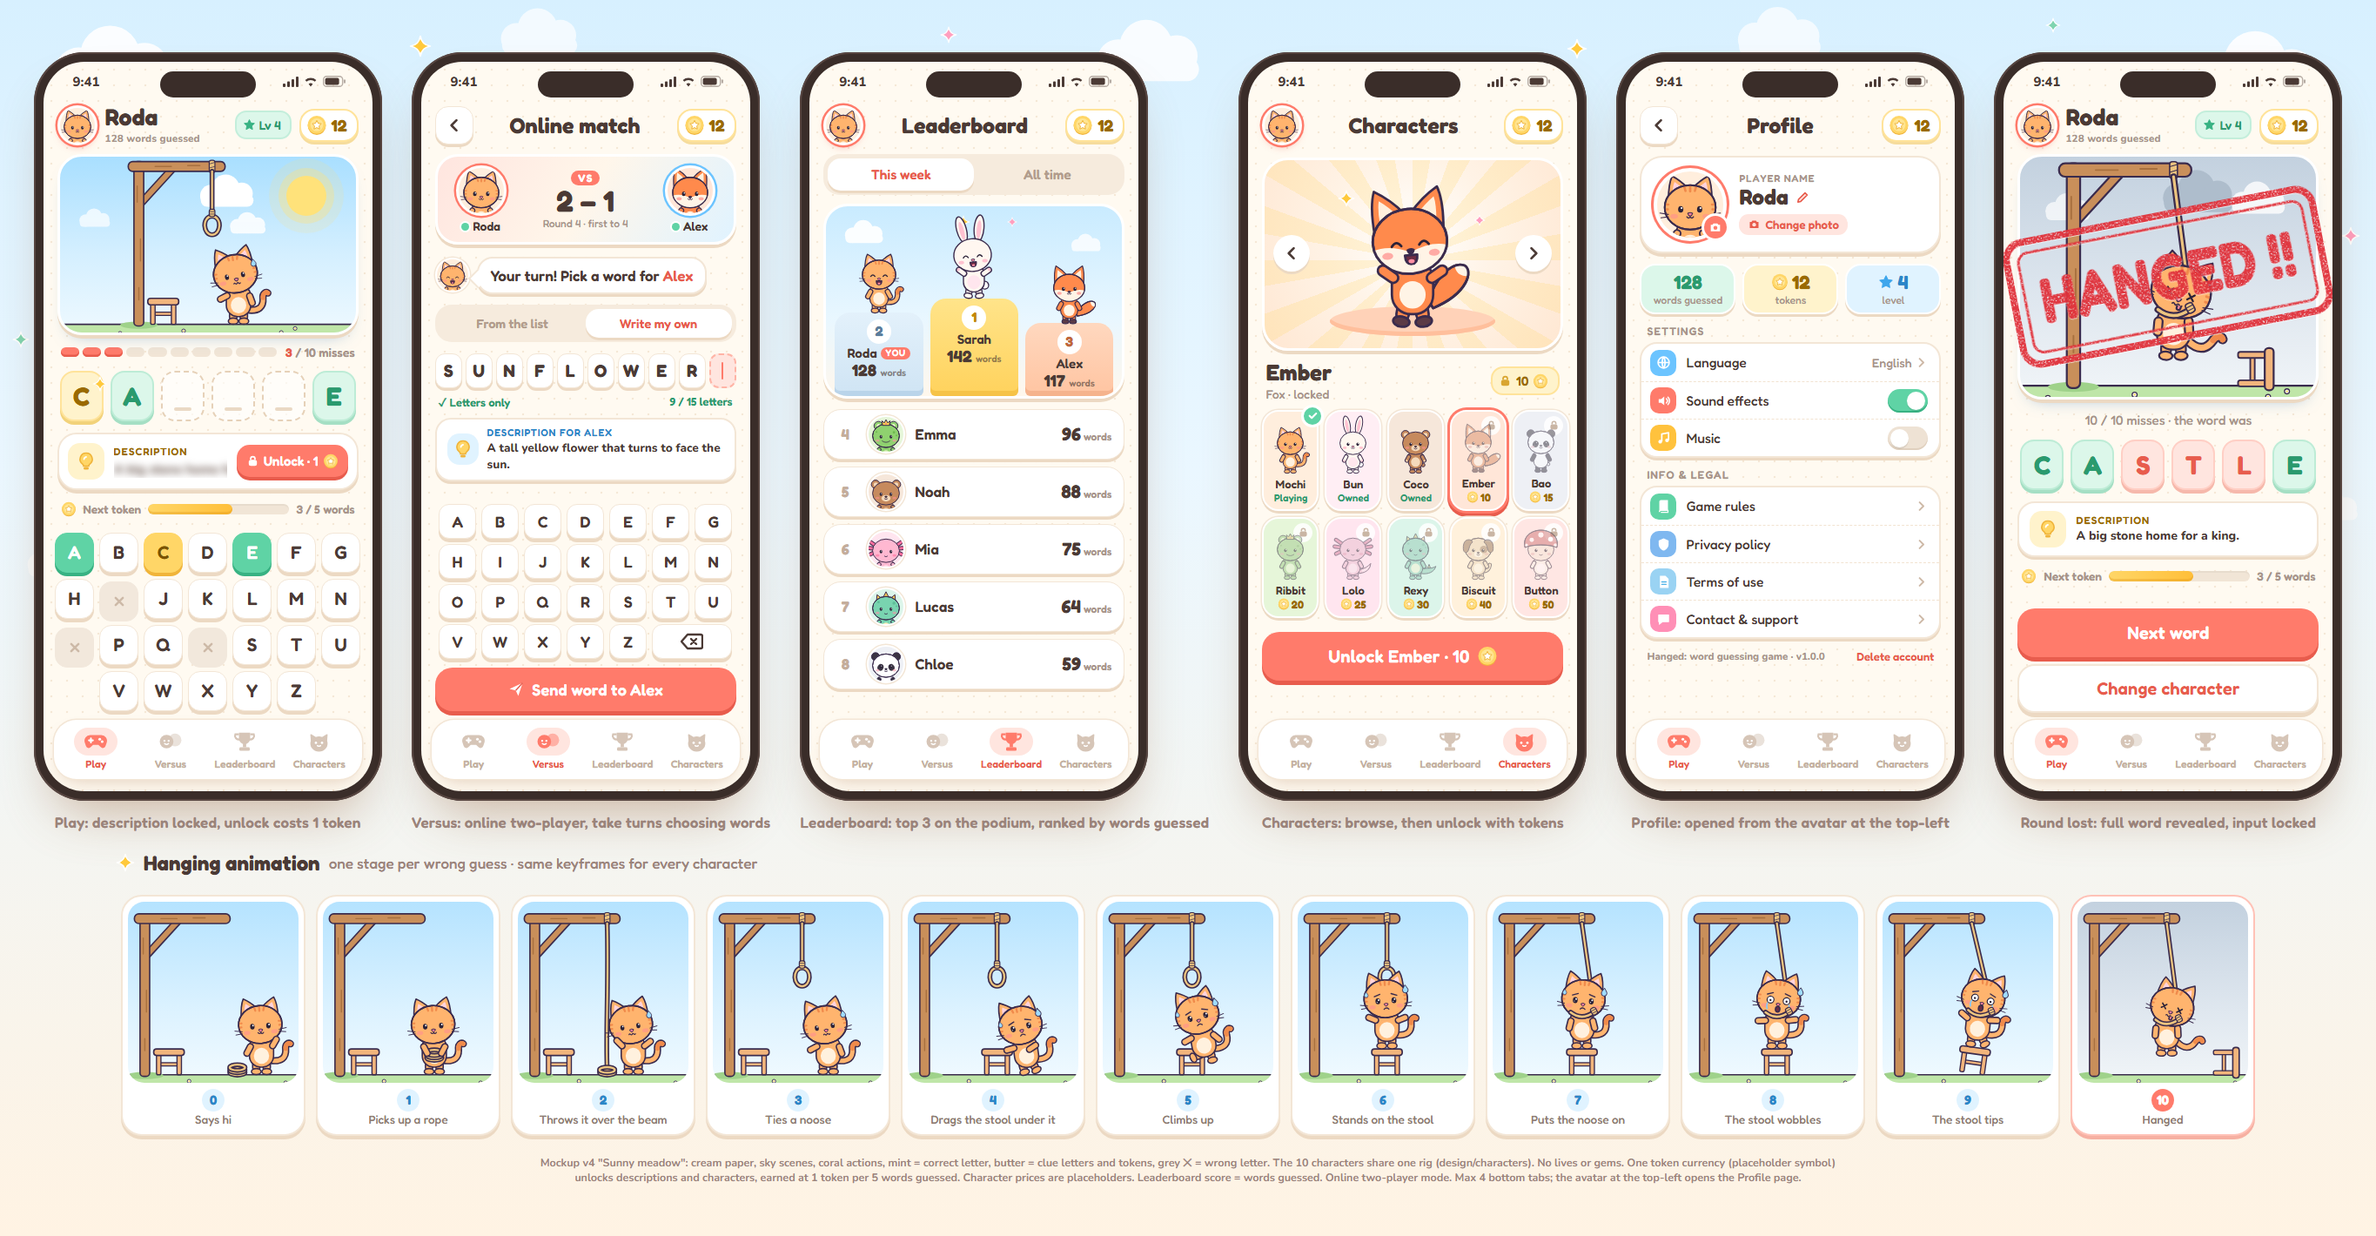
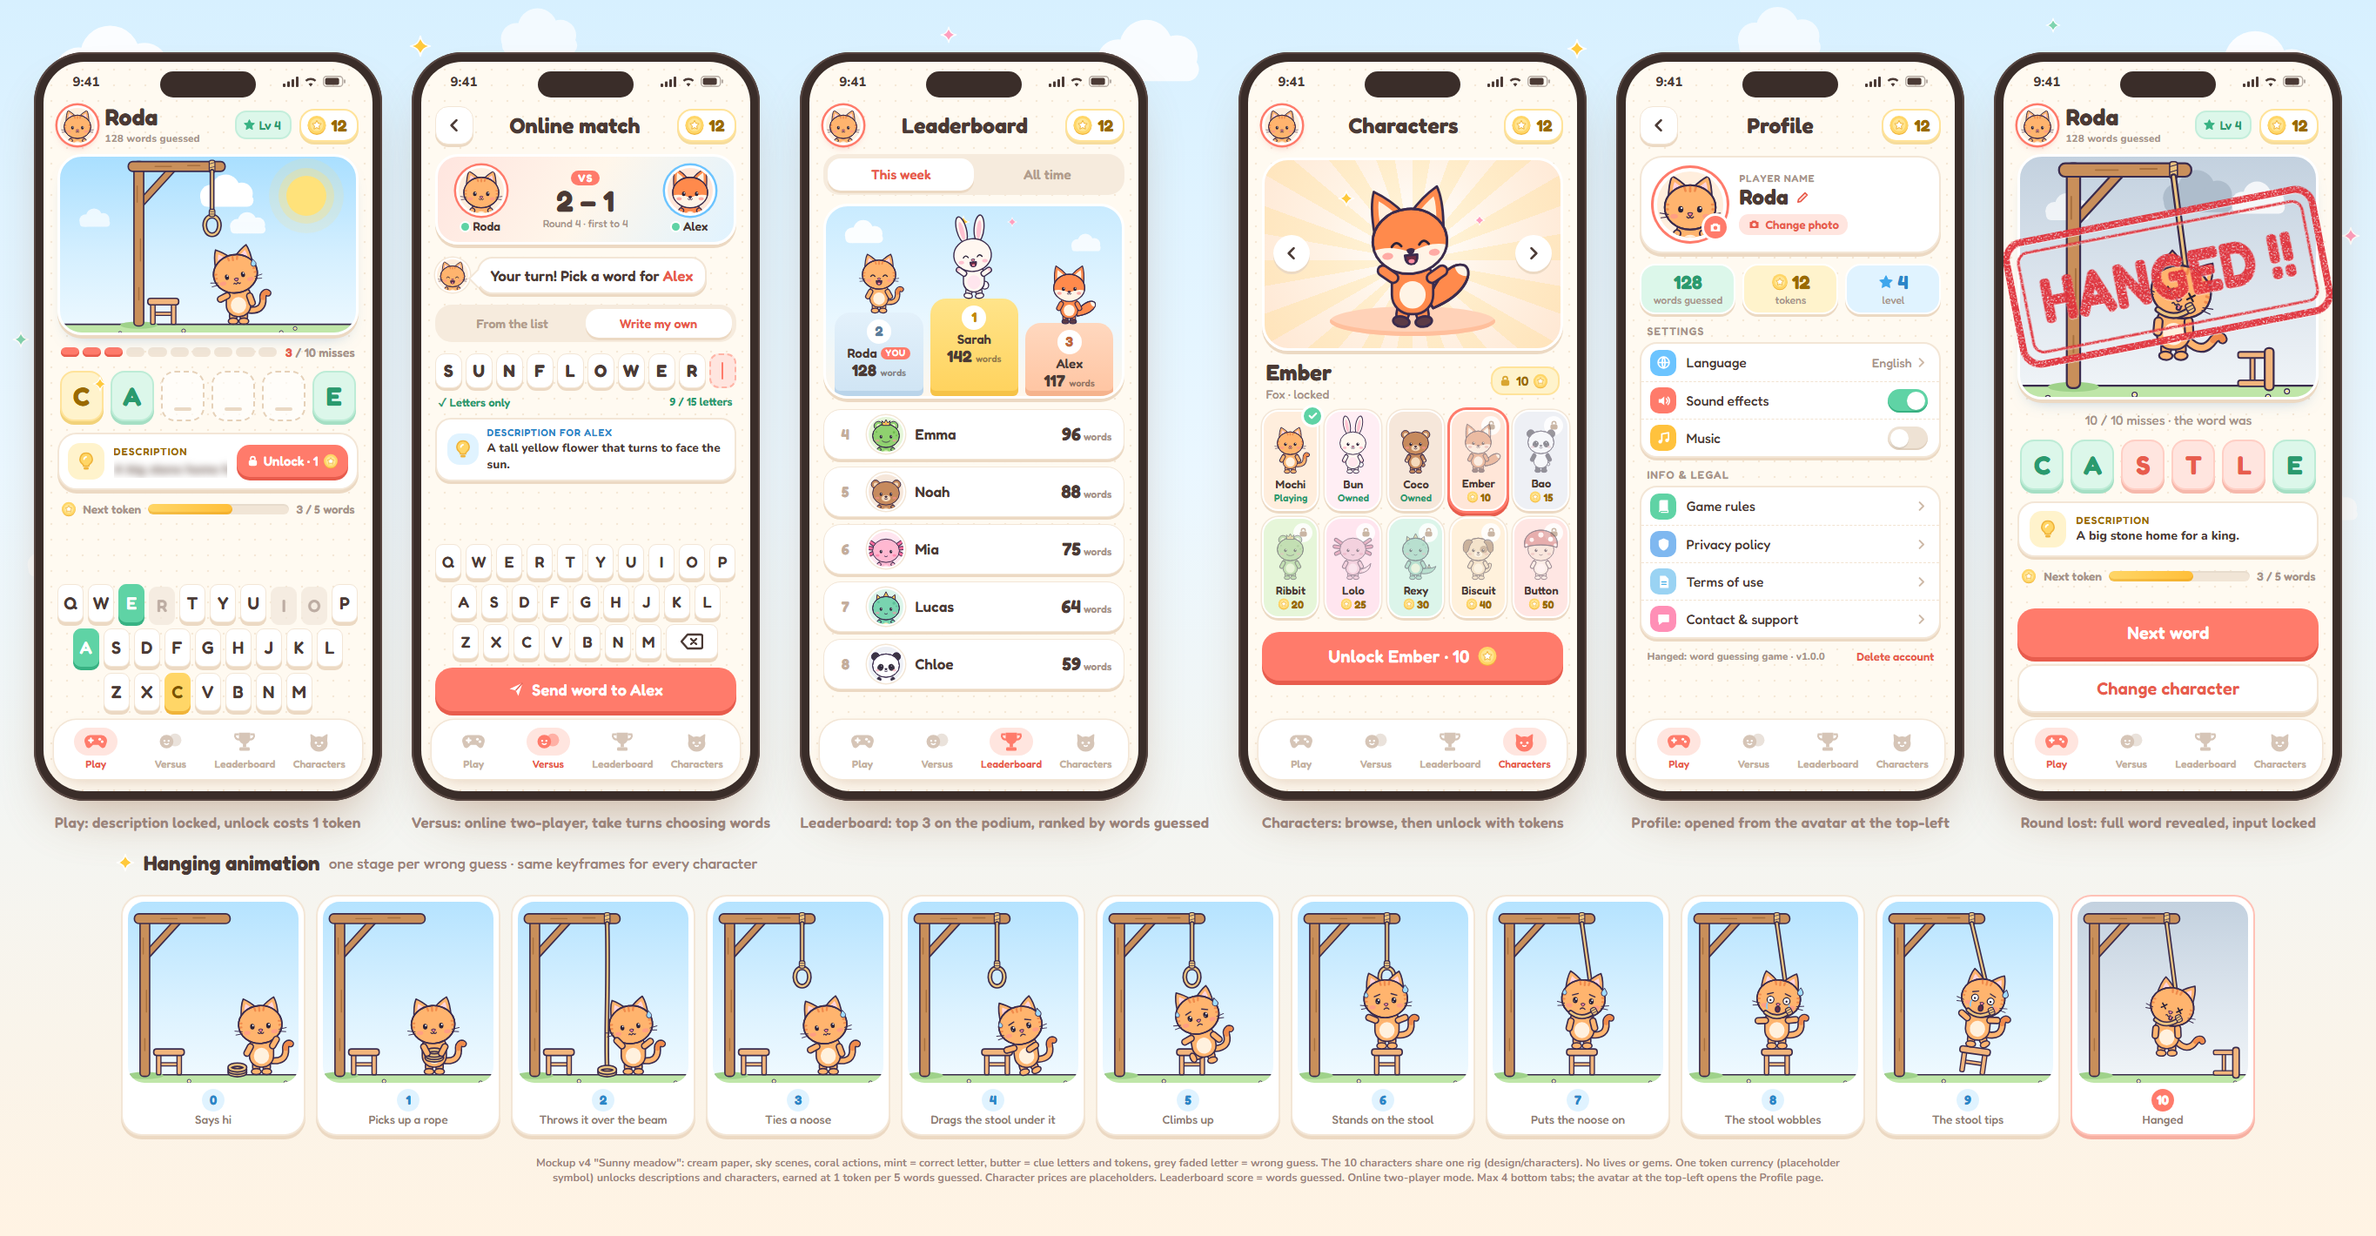
Keyboard: iPhone QWERTY order, wrong keys show their letter
- In-game keyboard uses the iOS letter order (10/9/7 centred rows),
  with taller, narrower keys sized to fit 10 across.
- Wrong guesses show the faded letter instead of a ✕, so players see
  what they already tried. Removes the now-unused xXml icon.
- Mockup updated to match (and its Versus backspace restored on the
  last row), PNG re-rendered; CLAUDE.md and play-screen docs updated.

Changed region(s): [[0.0, 0.4338, 0.1557, 0.5887], [0.2179, 0.9296, 0.7784, 0.9606], [0.1868, 0.4028, 0.3114, 0.5577]]

diff --git a/design/ui-mockup.html b/design/ui-mockup.html
@@ -78,12 +78,12 @@
   .track{flex:1;height:12px;border-radius:7px;background:#f1e5d6;overflow:hidden;box-shadow:inset 0 2px 0 rgba(0,0,0,.04)}
   .fill{height:100%;background:linear-gradient(90deg,var(--butter),#ffbf3a);border-radius:7px;box-shadow:inset 0 -3px 0 rgba(224,150,20,.35)}
   .kb{margin-top:auto;margin-bottom:4px;display:flex;flex-direction:column;gap:7px;align-items:center}
-  .kr{display:flex;gap:6px}
-  .k{width:45px;height:46px;border-radius:14px;background:#fff;border:1.5px solid var(--line);box-shadow:0 4px 0 var(--shadow);display:flex;align-items:center;justify-content:center;font-family:Fredoka,Nunito,sans-serif;font-weight:600;font-size:21px;color:var(--ink)}
+  .kr{display:flex;gap:5px}
+  .k{width:30px;height:44px;border-radius:9px;background:#fff;border:1.5px solid var(--line);box-shadow:0 4px 0 var(--shadow);display:flex;align-items:center;justify-content:center;font-family:Fredoka,Nunito,sans-serif;font-weight:600;font-size:20px;color:var(--ink)}
   .k.ok{background:var(--mint);color:#fff;border-color:var(--mint);box-shadow:0 4px 0 var(--mint-d)}
-  .k.no{background:#f2e8dc;border-color:#f2e8dc;box-shadow:none;transform:translateY(3px)}
+  .k.no{background:#f2e8dc;border-color:#f2e8dc;box-shadow:none;transform:translateY(3px);color:var(--muted);opacity:.75}
   .k.clue{background:var(--butter);border-color:var(--butter);box-shadow:0 4px 0 var(--butter-d);color:#7a5300}
-  .k.wide{width:96px}
+  .k.wide{width:60px}
 
   /* buttons */
   .btn{margin:8px 0;height:56px;border-radius:20px;background:var(--coral);color:#fff;font-family:Fredoka,Nunito,sans-serif;font-weight:600;font-size:20px;display:flex;align-items:center;justify-content:center;gap:8px;box-shadow:0 5px 0 var(--coral-d);flex:none;letter-spacing:.2px}
@@ -160,9 +160,9 @@
   .valid{display:flex;justify-content:space-between;font-family:Fredoka,Nunito,sans-serif;font-size:13px;font-weight:600;color:var(--mint-t);margin:0 4px 10px;flex:none}
   .hint{border-radius:18px;background:#fff;border:2px solid var(--line);box-shadow:0 3px 0 var(--shadow);padding:8px 12px;font-size:13.5px;font-weight:800;flex:none;display:flex;align-items:center;gap:10px}
   .hint small{display:block;font-family:Fredoka,Nunito,sans-serif;font-size:11.5px;font-weight:600;letter-spacing:.8px;color:var(--sky-t);margin-bottom:1px}
-  .kb.sm .k{width:43px;height:40px;font-size:18px;border-radius:12px}
+  .kb.sm .k{width:30px;height:40px;font-size:18px;border-radius:9px}
   .kb.sm{gap:6px;margin-bottom:4px}
-  .kb.sm .k.wide{width:92px}
+  .kb.sm .k.wide{width:60px}
 
   /* profile */
   .pf-card{display:flex;align-items:center;gap:14px;background:#fff;border:2px solid var(--line);box-shadow:0 4px 0 var(--shadow);border-radius:26px;padding:12px 14px;flex:none;margin-top:2px}
@@ -218,7 +218,7 @@
 <div class="row" id="row"></div>
 <div class="h3" id="h3"></div>
 <div class="stages" id="stages"></div>
-<div class="note">Mockup v4 "Sunny meadow": cream paper, sky scenes, coral actions, mint = correct letter, butter = clue letters and tokens, grey ✕ = wrong letter. The 10 characters share one rig (design/characters). No lives or gems. One token currency (placeholder symbol) unlocks descriptions and characters, earned at 1 token per 5 words guessed. Character prices are placeholders. Leaderboard score = words guessed. Online two-player mode. Max 4 bottom tabs; the avatar at the top-left opens the Profile page.</div>
+<div class="note">Mockup v4 "Sunny meadow": cream paper, sky scenes, coral actions, mint = correct letter, butter = clue letters and tokens, grey faded letter = wrong guess. The 10 characters share one rig (design/characters). No lives or gems. One token currency (placeholder symbol) unlocks descriptions and characters, earned at 1 token per 5 words guessed. Character prices are placeholders. Leaderboard score = words guessed. Online two-player mode. Max 4 bottom tabs; the avatar at the top-left opens the Profile page.</div>
 
 <script src="characters/rig.js"></script>
 <script src="characters/hanging.js"></script>
@@ -230,7 +230,6 @@ const coin = (s=22) => `<svg width="${s}" height="${s}" viewBox="0 0 24 24"><cir
 const lockI = (s=16,c='#c9b5a4') => `<svg width="${s}" height="${s}" viewBox="0 0 24 24"><rect x="4.5" y="10" width="15" height="11" rx="4" fill="${c}"/><path d="M8 10V8a4 4 0 0 1 8 0v2" fill="none" stroke="${c}" stroke-width="2.8"/></svg>`;
 const chev = (d='l', c=INK, s=20) => `<svg width="${s}" height="${s}" viewBox="0 0 24 24"><path d="${d==='l'?'M15 5l-7 7 7 7':'M9 5l7 7-7 7'}" fill="none" stroke="${c}" stroke-width="3.2" stroke-linecap="round" stroke-linejoin="round"/></svg>`;
 const checkI = `<svg width="13" height="13" viewBox="0 0 24 24"><path d="M5 12.5l4.5 4.5L19 7.5" fill="none" stroke="#fff" stroke-width="4" stroke-linecap="round" stroke-linejoin="round"/></svg>`;
-const xI = (s=18,c='#cdb9a7') => `<svg width="${s}" height="${s}" viewBox="0 0 24 24"><path d="M6.5 6.5l11 11M17.5 6.5l-11 11" stroke="${c}" stroke-width="3.4" stroke-linecap="round"/></svg>`;
 const spark = (s=18, c='#ffc93c') => `<svg width="${s}" height="${s}" viewBox="0 0 24 24"><path d="M12 1.5c.9 5.6 4.9 9.6 10.5 10.5-5.6.9-9.6 4.9-10.5 10.5-.9-5.6-4.9-9.6-10.5-10.5C7.1 11.1 11.1 7.1 12 1.5z" fill="${c}" stroke="#fff" stroke-width="1.6" stroke-linejoin="round"/></svg>`;
 const starI = (s=15, c='#38b283') => `<svg width="${s}" height="${s}" viewBox="0 0 24 24"><path d="M12 2.5l2.9 5.9 6.5.9-4.7 4.6 1.1 6.5L12 17.3l-5.8 3.1 1.1-6.5-4.7-4.6 6.5-.9z" fill="${c}" stroke="${c}" stroke-width="1.5" stroke-linejoin="round"/></svg>`;
 const bulbI = `<svg width="24" height="24" viewBox="0 0 24 24"><path d="M12 2.5a7 7 0 0 0-4.2 12.6c.8.6 1.2 1.4 1.2 2.4h6c0-1 .4-1.8 1.2-2.4A7 7 0 0 0 12 2.5z" fill="#ffd667" stroke="#f0b43a" stroke-width="1.6"/><rect x="9" y="18.5" width="6" height="3" rx="1.5" fill="#f0b43a"/><path d="M9.5 9.5a3 3 0 0 1 2.5-2.5" stroke="#fff" stroke-width="1.8" stroke-linecap="round" fill="none"/></svg>`;
@@ -285,11 +284,11 @@ const stamp = (text) => `<svg class="stamp" viewBox="0 0 372 156">
 const tokbar = `<div class="tokbar">${coin(18)}<span>Next token</span><div class="track"><div class="fill" style="width:60%"></div></div><span>3 / 5 words</span></div>`;
 
 function keyboard(state, extra=''){
-  const rows = ['ABCDEFG','HIJKLMN','OPQRSTU','VWXYZ'];
+  const rows = ['QWERTYUIOP','ASDFGHJKL','ZXCVBNM']; // iPhone letter order
   return `<div class="kb ${extra}">${rows.map((r,i)=>`<div class="kr">${[...r].map(c=>{
       const st = state[c];
-      return `<div class="k ${st||''}">${st==='no'?xI():c}</div>`;
-    }).join('')}${i===3 && extra ? `<div class="k wide"><svg width="26" height="20" viewBox="0 0 26 20"><path d="M8 2h15a2 2 0 0 1 2 2v12a2 2 0 0 1-2 2H8L1 10z" fill="none" stroke="${INK}" stroke-width="2.4" stroke-linejoin="round"/><path d="M12 7l6 6M18 7l-6 6" stroke="${INK}" stroke-width="2.4" stroke-linecap="round"/></svg></div>` : ''}</div>`).join('')}</div>`;
+      return `<div class="k ${st||''}">${c}</div>`;
+    }).join('')}${i===rows.length-1 && extra ? `<div class="k wide"><svg width="26" height="20" viewBox="0 0 26 20"><path d="M8 2h15a2 2 0 0 1 2 2v12a2 2 0 0 1-2 2H8L1 10z" fill="none" stroke="${INK}" stroke-width="2.4" stroke-linejoin="round"/><path d="M12 7l6 6M18 7l-6 6" stroke="${INK}" stroke-width="2.4" stroke-linecap="round"/></svg></div>` : ''}</div>`).join('')}</div>`;
 }
 
 // 1. Play

diff --git a/src/components/LetterKeyboard.tsx b/src/components/LetterKeyboard.tsx
@@ -1,7 +1,8 @@
 /*
  * The in-game keyboard: letters only, never the system keyboard.
  * Used keys stay in place but change look (mockup): correct = mint,
- * wrong = grey with ✕ (sunk, no shadow), clue = butter. A used key, or any
+ * wrong = grey, sunk, no shadow, letter faded (owner: show the letter, not a ✕,
+ * so the player sees what they already tried), clue = butter. A used key, or any
  * key once the round is over, cannot be pressed.
  */
 import { memo } from 'react';
@@ -10,11 +11,12 @@ import { Pressable, StyleSheet, Text, View } from 'react-native';
 import { KeyState, Letter } from '../game/engine';
 import { t } from '../i18n';
 import { colors, fonts } from '../theme';
-import { Icon, xXml } from './icons';
 import { Raised } from './Raised';
 
-const ROWS = ['abcdefg', 'hijklmn', 'opqrstu', 'vwxyz'];
-const GAP = 6;
+// Same letter order as the iPhone keyboard (QWERTY), rows centred like iOS.
+const ROWS = ['qwertyuiop', 'asdfghjkl', 'zxcvbnm'];
+const PER_ROW = ROWS[0].length;
+const GAP = 5;
 
 const LOOK: Record<Exclude<KeyState, 'no'>, { bg: string; border: string; shadow: string; text: string }> = {
   idle: { bg: '#fff', border: colors.line, shadow: colors.shadow, text: colors.ink },
@@ -26,11 +28,13 @@ const Key = memo(function Key({ letter, state, locked, w, h, onPress }: {
   letter: Letter; state: KeyState; locked: boolean; w: number; h: number; onPress: (c: Letter) => void;
 }) {
   const used = state !== 'idle';
+  const radius = Math.min(14, Math.round(w * 0.3));
+  const fontSize = Math.round(Math.min(h * 0.46, w * 0.68));
   const label = used ? t('play.a11y.key.used', { letter: letter.toUpperCase() }) : t('play.a11y.key', { letter: letter.toUpperCase() });
   if (state === 'no') {
     return (
-      <View accessible accessibilityLabel={label} style={[styles.key, styles.keyNo, { width: w, height: h, marginTop: 4 }]}>
-        <Icon xml={xXml()} size={18} />
+      <View accessible accessibilityLabel={label} style={[styles.key, styles.keyNo, { width: w, height: h, borderRadius: radius, marginTop: 4 }]}>
+        <Text style={[styles.keyText, styles.keyNoText, { fontSize }]}>{letter.toUpperCase()}</Text>
       </View>
     );
   }
@@ -47,11 +51,11 @@ const Key = memo(function Key({ letter, state, locked, w, h, onPress }: {
       {({ pressed }) => (
         <Raised
           shadowColor={c.shadow}
-          radius={14}
+          radius={radius}
           pressed={pressed}
-          style={[styles.key, { width: w, height: h, backgroundColor: c.bg, borderColor: c.border }]}
+          style={[styles.key, { width: w, height: h, borderRadius: radius, backgroundColor: c.bg, borderColor: c.border }]}
         >
-          <Text style={[styles.keyText, { color: c.text, fontSize: Math.round(h * 0.46) }]}>{letter.toUpperCase()}</Text>
+          <Text style={[styles.keyText, { color: c.text, fontSize }]}>{letter.toUpperCase()}</Text>
         </Raised>
       )}
     </Pressable>
@@ -67,8 +71,9 @@ interface Props {
 }
 
 export function LetterKeyboard({ keyState, locked, onPress, available, compact }: Props) {
-  const w = Math.floor(Math.min(48, (available - GAP * 6) / 7));
-  const h = compact ? Math.min(40, w) : Math.min(46, w + 1);
+  const w = Math.floor(Math.min(44, (available - GAP * (PER_ROW - 1)) / PER_ROW));
+  // iOS keys are taller than wide; 10 keys per row makes them narrow.
+  const h = compact ? Math.min(42, Math.round(w * 1.35)) : Math.min(48, Math.round(w * 1.45));
   return (
     <View style={[styles.kb, { gap: compact ? 5 : 7 }]}>
       {ROWS.map((row) => (
@@ -85,7 +90,8 @@ export function LetterKeyboard({ keyState, locked, onPress, available, compact }
 const styles = StyleSheet.create({
   kb: { alignItems: 'center', marginBottom: 4 },
   row: { flexDirection: 'row', gap: GAP },
-  key: { borderWidth: 1.5, borderRadius: 14, alignItems: 'center', justifyContent: 'center' },
+  key: { borderWidth: 1.5, alignItems: 'center', justifyContent: 'center' },
   keyNo: { backgroundColor: colors.keyUsed, borderColor: colors.keyUsed },
+  keyNoText: { color: colors.muted, opacity: 0.75 },
   keyText: { fontFamily: fonts.display600 },
 });

diff --git a/src/components/icons.tsx b/src/components/icons.tsx
@@ -19,8 +19,6 @@ export const lockXml = (c = '#c9b5a4') =>
     '0 0 24 24',
     `<rect x="4.5" y="10" width="15" height="11" rx="4" fill="${c}"/><path d="M8 10V8a4 4 0 0 1 8 0v2" fill="none" stroke="${c}" stroke-width="2.8"/>`,
   );
-export const xXml = (c = '#cdb9a7') =>
-  svg('0 0 24 24', `<path d="M6.5 6.5l11 11M17.5 6.5l-11 11" stroke="${c}" stroke-width="3.4" stroke-linecap="round"/>`);
 export const sparkXml = (c = '#ffc93c') =>
   svg(
     '0 0 24 24',

diff --git a/src/theme/index.ts b/src/theme/index.ts
@@ -1,7 +1,7 @@
 /*
  * "Sunny meadow" palette and type, copied from design/ui-mockup.html (:root).
  * Cream paper, sky scenes, coral = actions, mint = correct letter,
- * butter = clue letters and tokens, grey ✕ = wrong letter.
+ * butter = clue letters and tokens, grey faded letter = wrong guess.
  */
 export const colors = {
   paper: '#fffaf1',

diff --git a/Context/play-screen.md b/Context/play-screen.md
@@ -30,7 +30,7 @@ On a loss, tiles the player found turn **mint**, and letters they missed turn
 | `GameHeader.tsx` | Avatar button (will open Profile; disabled now), **player name** (never the app name; default "Player" until Profile exists), words guessed, `Lv N`, token pill. |
 | `HangingScene.tsx` | Scene card: sky, sun, drifting clouds, the animated character ([characters-and-animation.md](characters-and-animation.md)), and the `Stamp`. |
 | `RoundParts.tsx` | `MissesBar` (one pip per allowed miss, so 6 pips at level 8), `WordTiles`, `DescriptionCard`, `TokenBar`, `BigButton`. |
-| `LetterKeyboard.tsx` | Letters only, A–Z in 4 rows (7/7/7/5). Used keys **stay in place** and change look: mint = correct, grey ✕ (sunk, no shadow) = wrong, butter = clue. Used keys and finished rounds can't be pressed. |
+| `LetterKeyboard.tsx` | Letters only, in the **iPhone (QWERTY) order**: 3 centred rows of 10/9/7, so players find letters where their thumbs expect them. Used keys **stay in place** and change look: mint = correct, grey with the letter faded (sunk, no shadow) = wrong, butter = clue. Wrong keys show their letter, not a ✕ (owner's call), so the player can see at a glance what they already tried. Used keys and finished rounds can't be pressed. |
 | `TabBar.tsx` | The 4 tabs. Only Play exists; the others are drawn but disabled ("Coming soon" for screen readers). **Never a 5th tab.** |
 | `Raised.tsx` | The mockup's flat bottom shadow (`box-shadow: 0 4px 0 color`) as a coloured block under the element. `pressed` sinks it, like a key going down. Use it for anything "raised"; native RN shadows blur and look wrong here. |
 | `icons.tsx` | The mockup's SVG icons, copied verbatim as strings. |
@@ -40,8 +40,8 @@ On a loss, tiles the player found turn **mint**, and letters they missed turn
 
 - Tiles: words over 8 letters wrap onto **two rows**, so a 15-letter word is 8 + 7
   tiles about 36 pt wide. Tile width = what fits, capped at the mockup's 50.
-- Keys: width from the screen width (max 48), height 46.
-- **Compact mode** (`height < 760`, e.g. iPhone SE 375×667): keys 40 tall,
+- Keys: 10 fit across the widest row, so width = what fits (max 44, about 30 on a phone). Taller than wide like iOS keys: height = 1.45 × width (max 48), radius 30% of width.
+- **Compact mode** (`height < 760`, e.g. iPhone SE 375×667): keys 1.35 × width (max 42) tall,
   tiles 48 tall, tab bar 60, smaller scene minimum. The scene is the flexible part
   (`flexGrow` between a minimum and the mockup's height), so every layout fits
   without scrolling. Checked at 393×852 and 375×667.

diff --git a/CLAUDE.md b/CLAUDE.md
@@ -97,7 +97,7 @@ A level's difficulty is set by:
 ### Keyboard
 
 - A custom in-game keyboard with **letters only**. Never use the system keyboard during guessing.
-- Letters that have been used become unavailable. The notes say used letters "are gone from the keyboard". The mockup keeps them in place but changes their look: correct letters turn filled mint green, wrong ones turn grey with an ✕, and clue letters are butter yellow. Follow the mockup unless the owner says otherwise.
+- Letters that have been used become unavailable. The notes say used letters "are gone from the keyboard". The mockup keeps them in place but changes their look: correct letters turn filled mint green, wrong ones turn grey with the letter faded (the owner chose the letter over the mockup's ✕), and clue letters are butter yellow. Follow the mockup unless the owner says otherwise.
 
 ---
 
